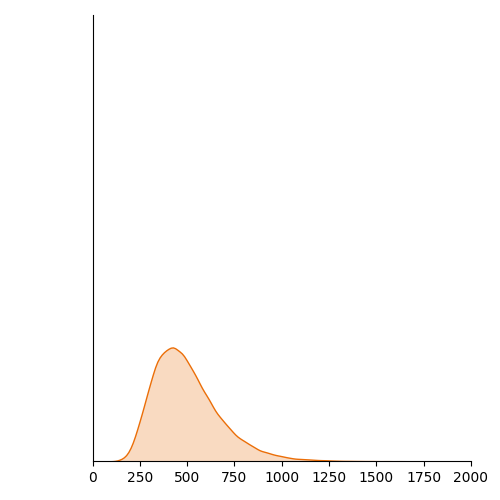
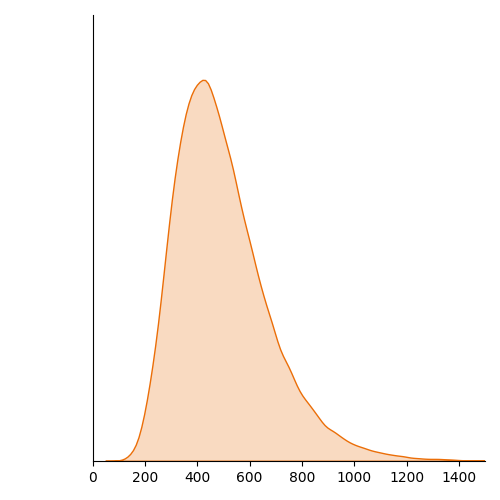
Updated distribution png plots

Changed region(s): [[0.3, 0.15, 0.99, 0.99], [0.24, 0.78, 0.33, 0.99], [0.36, 0.93, 0.42, 0.96]]

diff --git a/utk-games/disruption/treatment.py b/utk-games/disruption/treatment.py
@@ -68,6 +68,7 @@ class DistributionParameters(PydanticModel):
 TREATMENT_GROUPS = list(product(["low", "high"], [True, False]))
 # mapping: {1: ('low', True), 2: ('low', False), 3: ('high', True), 4: ('high', False)}
 
+
 class Treatment(PydanticModel):
     idx: conint(strict=True, ge=1, le=len(TREATMENT_GROUPS))
     _mu: float = None
@@ -182,24 +183,17 @@ class Treatment(PydanticModel):
             rvs_regular = self.get_demand_rvs(size=int(1e5))
             rvs_disrupted = self.get_demand_rvs(size=int(1e5), disrupt=True)
 
-            ## get sensible axis limits
-
-            # yaxis max
-            sns.displot(rvs_regular, color=color, kind="kde", fill=True)
-            ymax_regular = plt.gca().get_ylim()[1]
-            plt.cla()
-            sns.displot(rvs_disrupted, color=color, kind="kde", fill=True)
-            ymax_disrupted = plt.gca().get_ylim()[1]
-            plt.cla()
-            ymax = max(0.01, ymax_regular, ymax_disrupted)
-
-            # xaxis max
-            # xmax = max(rvs_regular + rvs_disrupted)
-            xmax = 2000
+            # set axis limits
+            if self.variance_choice == "low":
+                # 'low' variability
+                xmax, ymax = 1000, 0.012
+            else:
+                # 'high' variability
+                xmax, ymax = 1500, 0.003
 
             # plot regular distribution
             sns.displot(rvs_regular, color=color, kind="kde", fill=True)
-            plt.xlim((0, 2000 if xmax > 2000 else xmax))
+            plt.xlim((0, xmax))
             plt.ylim(0, ymax)
             plt.yticks([])
             plt.ylabel(None)
@@ -207,7 +201,7 @@ class Treatment(PydanticModel):
 
             # plot disrupted distribution
             sns.displot(rvs_disrupted, color=color, kind="kde", fill=True)
-            plt.xlim((0, 2000 if xmax > 2000 else xmax))
+            plt.xlim((0, xmax))
             plt.ylim(0, ymax)
             plt.yticks([])
             plt.ylabel(None)
